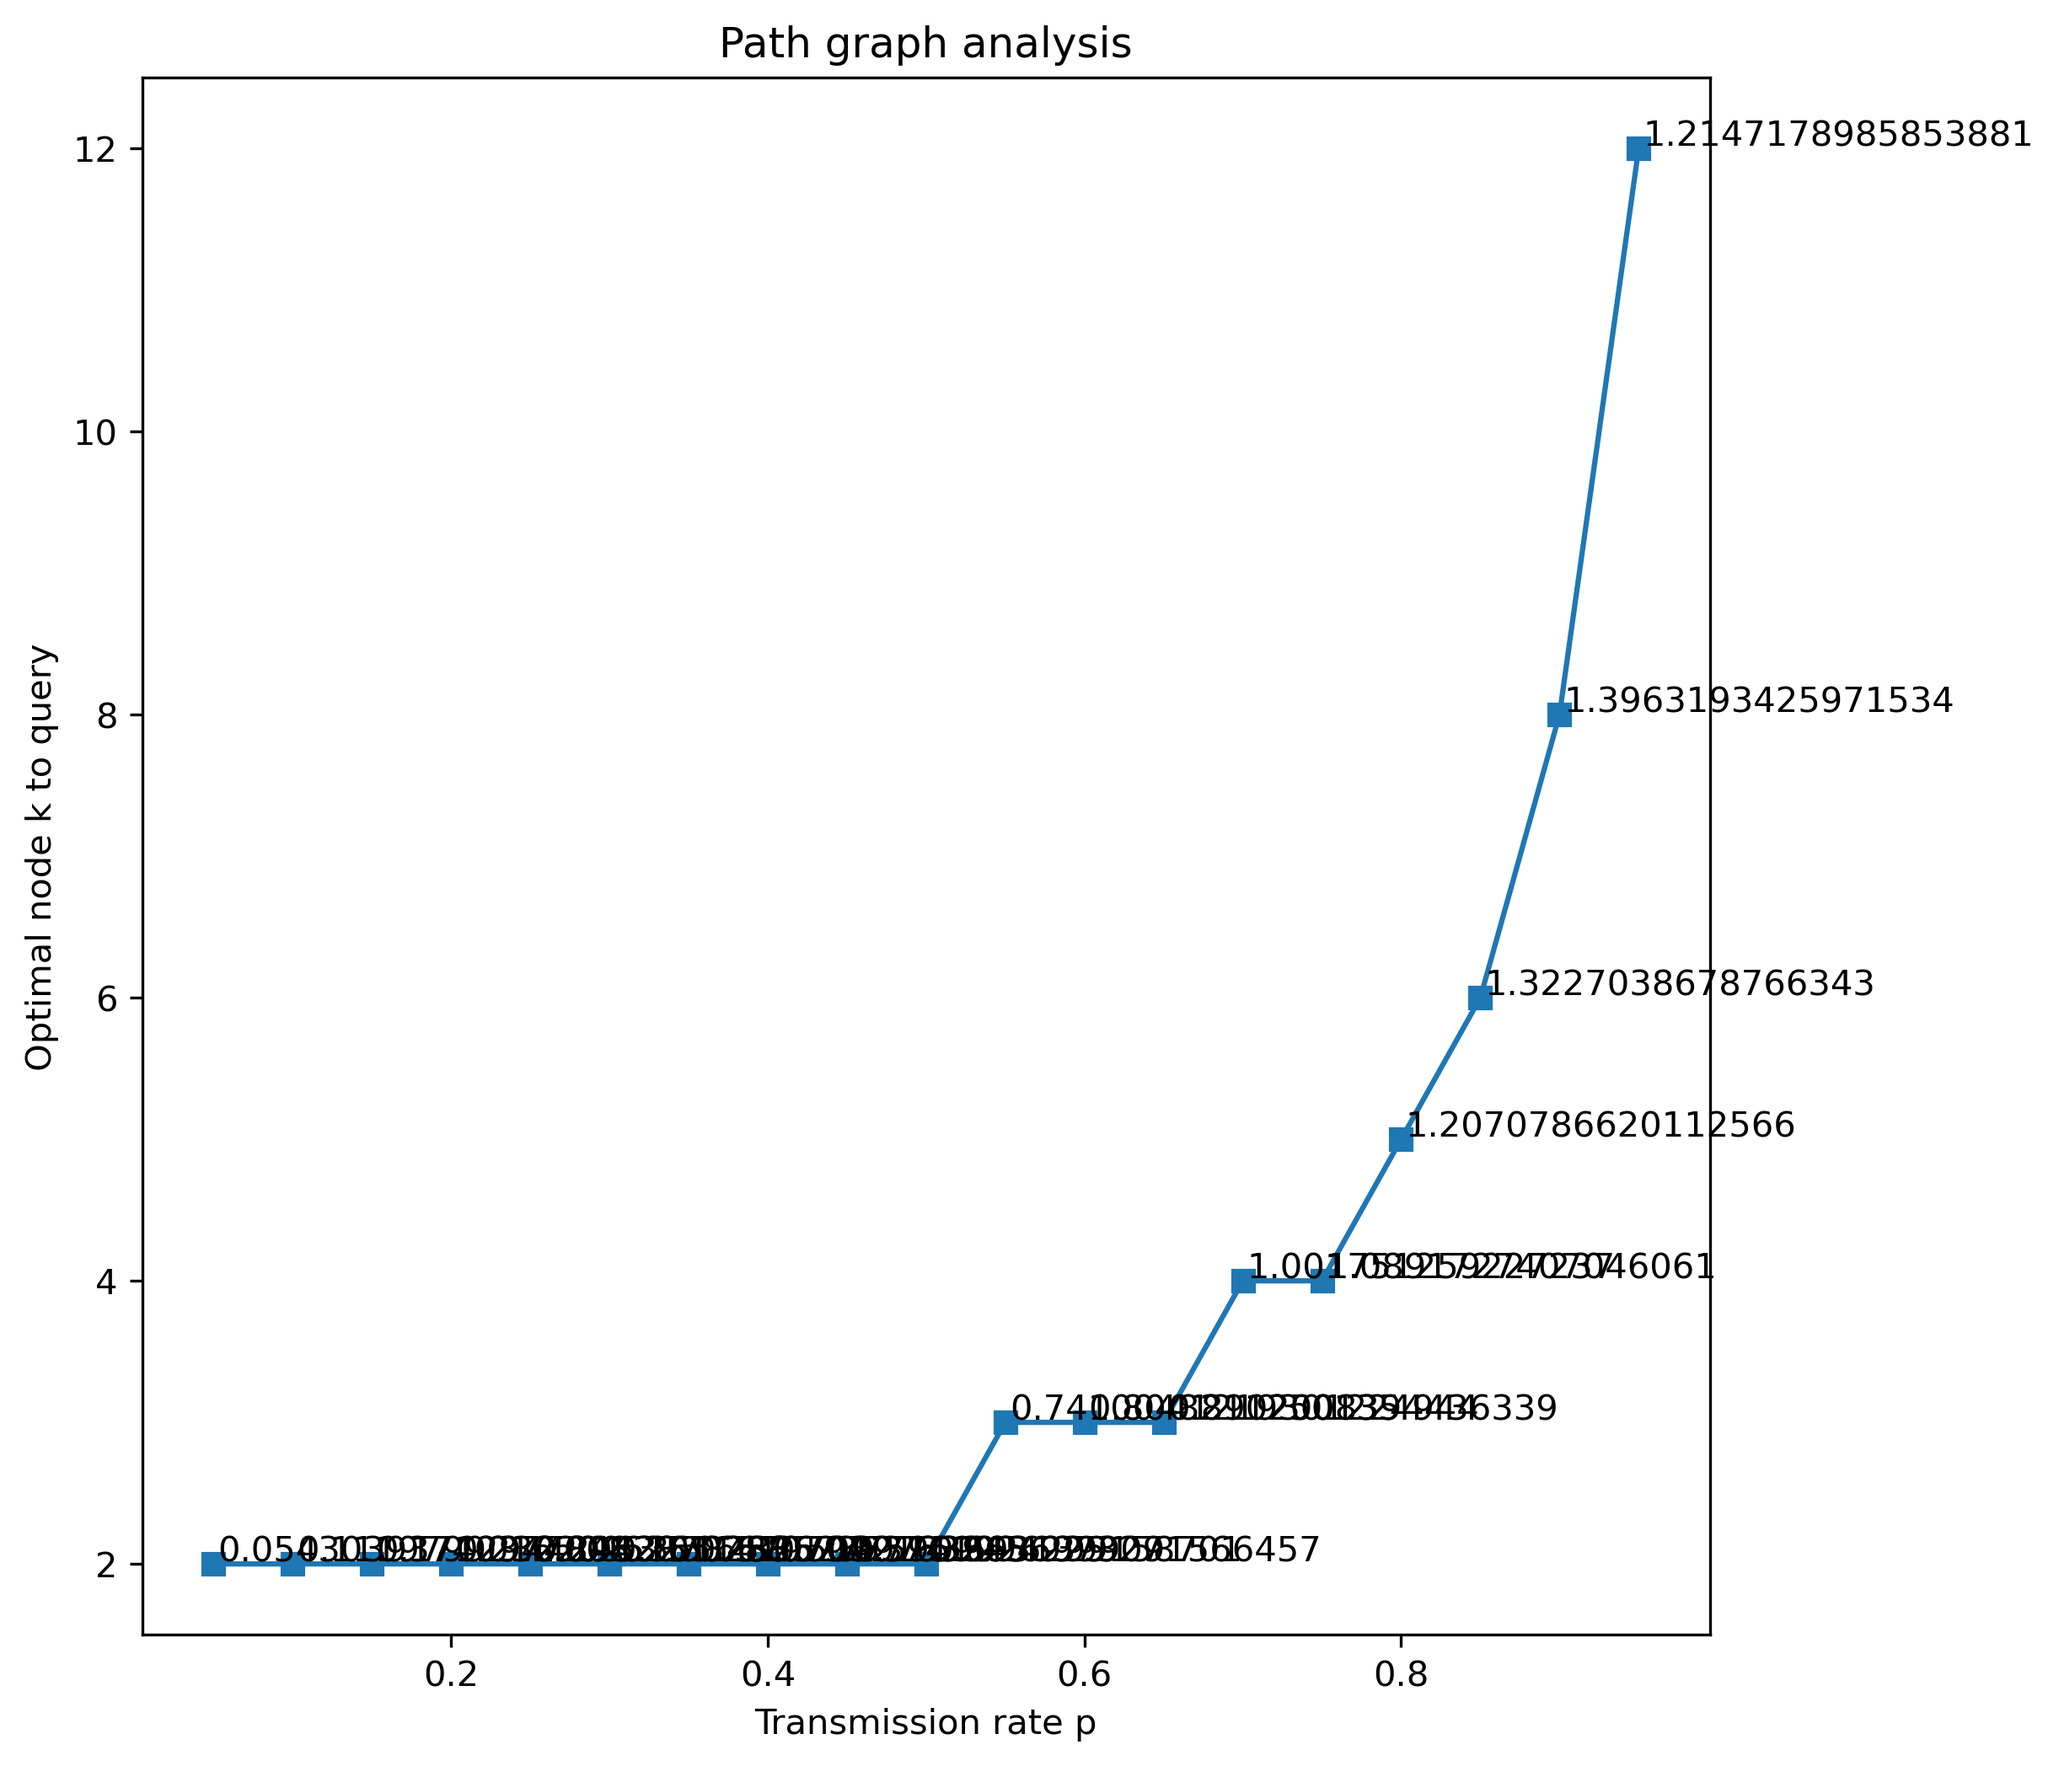
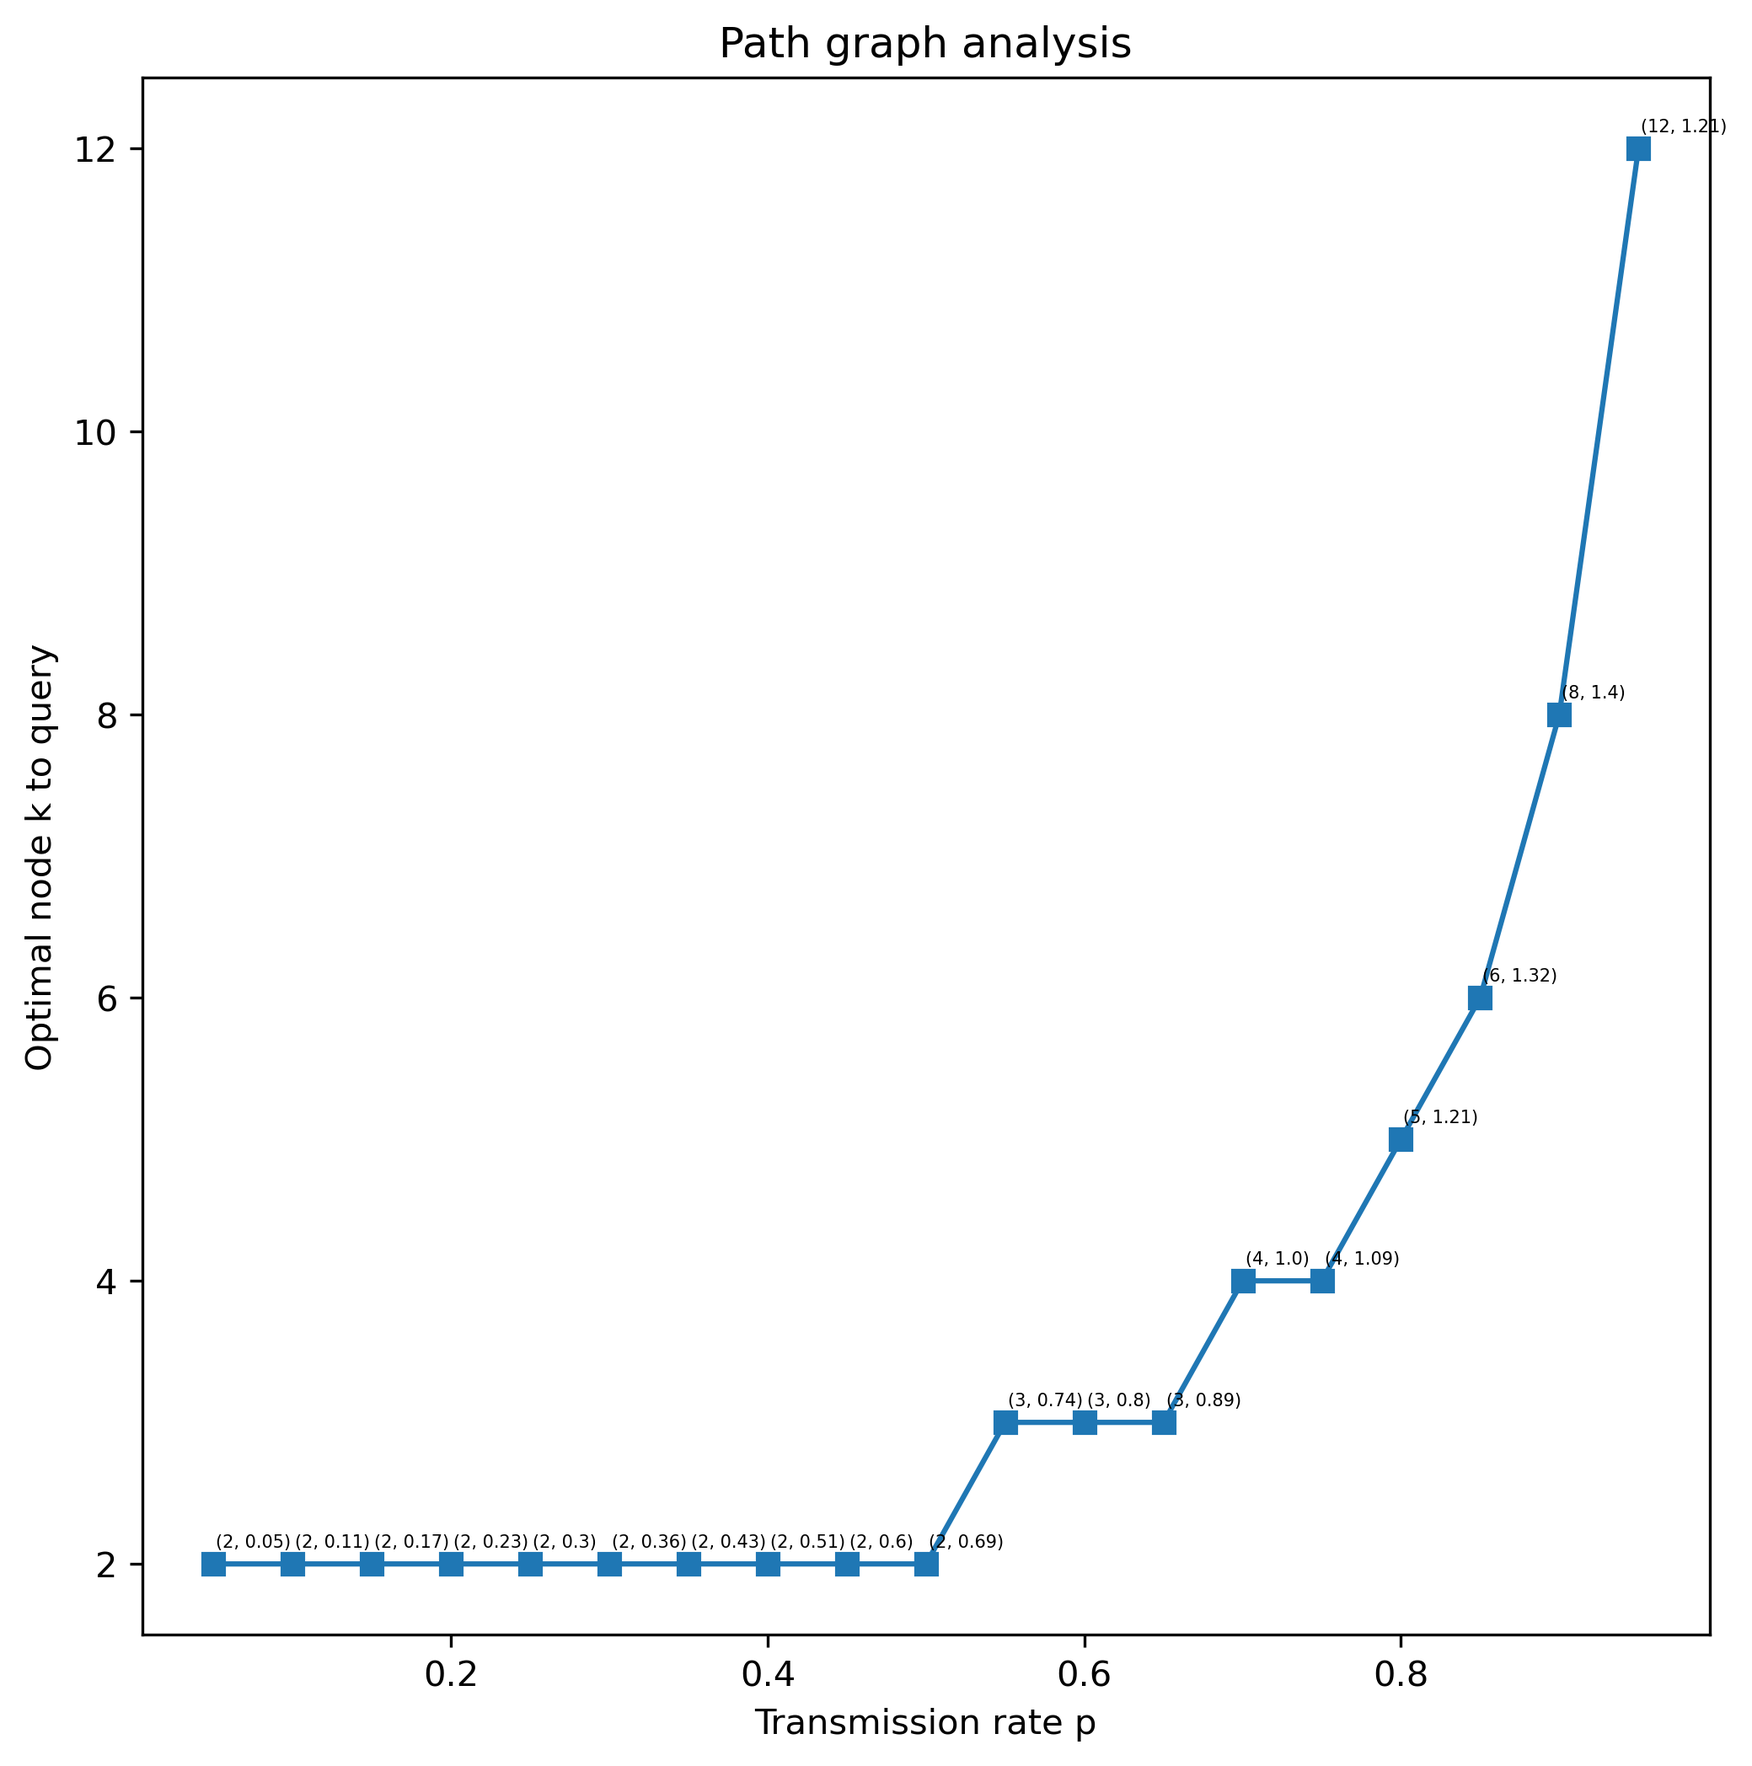
add annotations to plots

diff --git a/path_graph.py b/path_graph.py
@@ -56,8 +56,8 @@ def main():
         fig, ax = plt.subplots(figsize=(8,8))
         ax.plot(p_list, k_opt_list, marker='s')
         for i in range(len(p_list)):
-            ax.annotate(round(min_cond_entropy_list[i],2), (p_list[i], k_opt_list[i]), \
-                xytext=(5,3),textcoords = "offset pixels")
+            ax.annotate((int(k_opt_list[i]), round(min_cond_entropy_list[i],2)), (p_list[i], k_opt_list[i]), \
+                xytext=(3,20),textcoords = "offset pixels", size=5)
         ax.set_xlabel('Transmission rate p')
         ax.set_ylabel('Optimal node k to query')
         ax.set_title('Path graph analysis')
